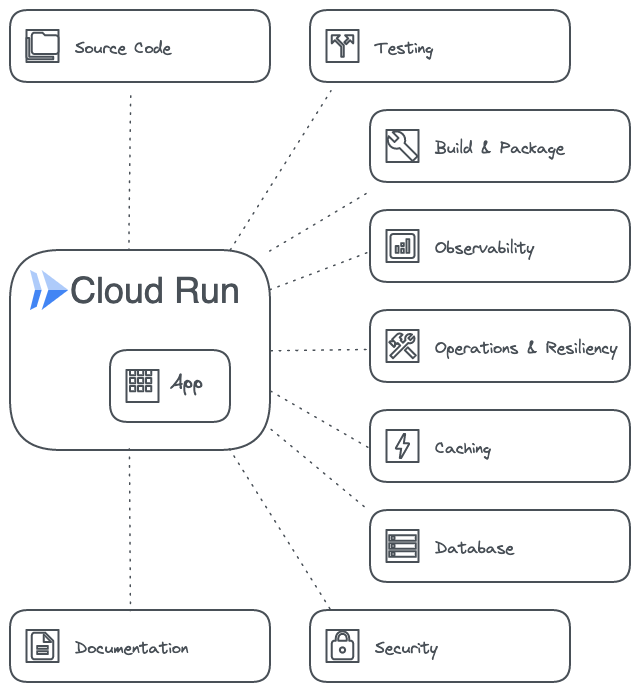
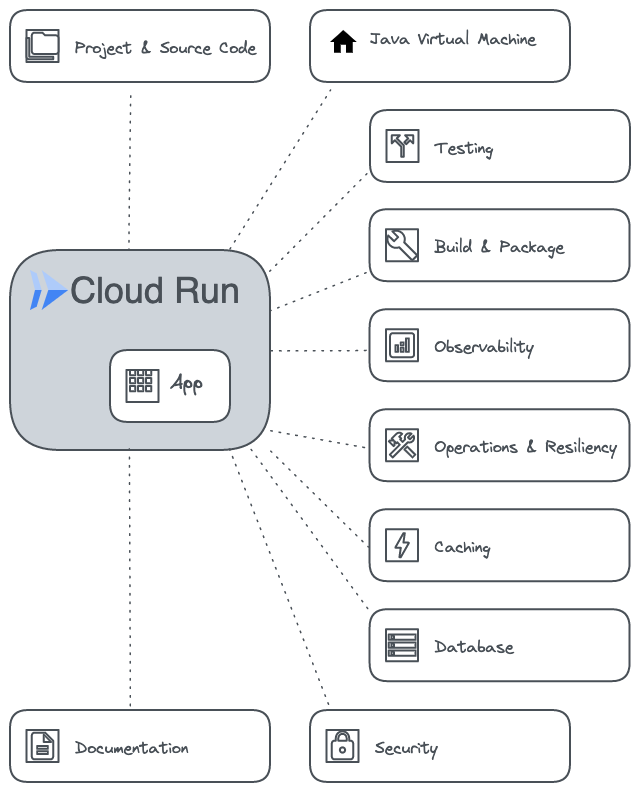
updated doc categories

diff --git a/README.md b/README.md
@@ -3,19 +3,30 @@
 This repo dives into the `characteristics of optimized, modern Java applications deployed in Cloud Run in the Google Cloud`. It is intended to be a `living repo` where new optimizations will constantly be added.
 
 ## Why this repo 
-It can be used as the basis for an optimization workshop or the starting point of a discussion on service production readiness. Notes on *what could happen if you don't follow it* are provided for the different recommendations.
+Optimizing an app for Cloud Run is always framed in the larger context of production readiness for a Cloud Run PROD environment. 
 
-These recommendations have been accumulated over the years working on various projects or publicly available knowledge and documentation. Revisit them before deploying microservices to Production in a serverless environment. 
+It contains a number of lessons learned from participation in various projects over the yars or publicly available knowledge and documentation. Revisit them before deploying microservices to Production in a serverless environment.
 
 ## How to think about production-readiness 
-We think that a **production-ready service is:**
+We generally think that a **production-ready service is:**
 * Stable and Reliable
 * Scalable and Performant
-* Fault Tolerant and has no single point of failure.
+* Fault Tolerant without any single point of failure
 * Properly Monitored
 * Documented and Understood
 
-The material dives into these characteristics as part of a production-ready service checklist
+This material dives into these characteristics as part of a production-ready service checklist and can be used for optimization workshops or discussion around production readiness.
+
+## How to think about optimizations
+Optimizing any app for Cloud Run requires a balance of different aspects to be considered, therefore it is important to always have a clear picture of **what it is that we are optimizing for**:
+- start-up time
+- execution latency
+- resource consumption (memory & CPU)
+- concurrency
+- image size
+- costs
+
+Some aspects need to be balanced, others such as container and runtime security are mandatory.
 
 ## Service production-readiness checklist
 
@@ -26,18 +37,43 @@ A set of services is provided to illustrate the different points, following this
 ![App](images/AppArch.png)
 
 
-## Source Code
+### Project & Source Code
 Source code recommendations can be grouped into few distinct categories:
 
-<font color="gree">**Project**</font>
-| Project | Recommendations / Optimizations | Notes |
-|:-----|:------------ |:---   |
-| Java | Use latest LTS version | Java 17 currently
-|  | 
+**Project**
+* Java - Use latest LTS version 
+    * Java 17 currently 
+    * Better performance, security and resource consumption are achieved by simply building and running the app with the latest Java LTS release
+* Maven - Use the latest version
+    * 3.8.5 currently  
+* Gradle - Use the latest version 
+    * 7.4.2 currently
+* Dependency management - Use a bill-of-materials(BOM) for managing dependencies and versions consistently for libraries that work together without linkage errors
+    * [Spring Boot dependencies](https://docs.spring.io/spring-boot/docs/current/reference/html/using.html#using.build-systems.dependency-management)
+    * [Spring Cloud dependencies](https://spring.io/projects/spring-cloud)
+    * [Spring Native dependencies](https://docs.spring.io/spring-native/docs/current/reference/htmlsingle/#_add_the_spring_native_dependency)
+    * [Google Cloud BOM](https://cloud.google.com/java/docs/bom)
+    
+**Spring**
+* Use the latest version of Spring - 2.7.0 currently
+    * Spring releases constantly fix issues and CVEs in the frameworks and their dependencies
+* Use 
 
-| Code | Optimization | Notes |
-|:-----|:------------ |:---   |
-| Java | Use latest <br> LTS version | Java 17 currently
-| 
+**Source code** {#source}
 
-
+### Java Virtual Machine optimizations
+* Always set the garbage collector
+    * Very important for longer running, smaller footprint Cloud Run services
+    * Default for Java 17 in OpenJDK is G1 GC for a `server class machine` - defined as >=2GB RAM and >= 2CPUs
+    * For lower setting, Serial GC is automatically set
+    * The [algorithm used](https://github.com/openjdk/jdk/blob/3121898c33fa3cc5a049977f8677105a84c3e50c/src/hotspot/share/runtime/os.cpp#L1673) for setting the garbage collector
+* Use [container-aware versions](https://cloud.google.com/run/docs/tips/java#container-aware) when deploying a Java app in Cloud Run or a Kubernetes-based environment
+    * container awareness is important as it allows deployments to cloud orchestration systems to limit container resources via CPU and memory quotas
+    * Java 17 and Java 11 are container aware since general availability (GA)
+    * Java 8 is container aware since version 8u202
+* Understand JVM memory usage
+    * Native memory tracking can't be set via JAVA_TOOL_OPTIONS
+    * [Set start-up arguments](https://cloud.google.com/run/docs/tips/java#jvm-memory) in the container image entrypoint or the Buildpack parameters if in use
+    * Useful - [Java memory calculator](https://github.com/cloudfoundry/java-buildpack-memory-calculator)
+* Catch and [handle](https://cloud.google.com/run/docs/tips/java#handling_sequential_5xx_responses_under_the_container_runtime_contract) properly `Internal errors - 5XX` under the container runtime contract
+    * see also [source code](#source)
